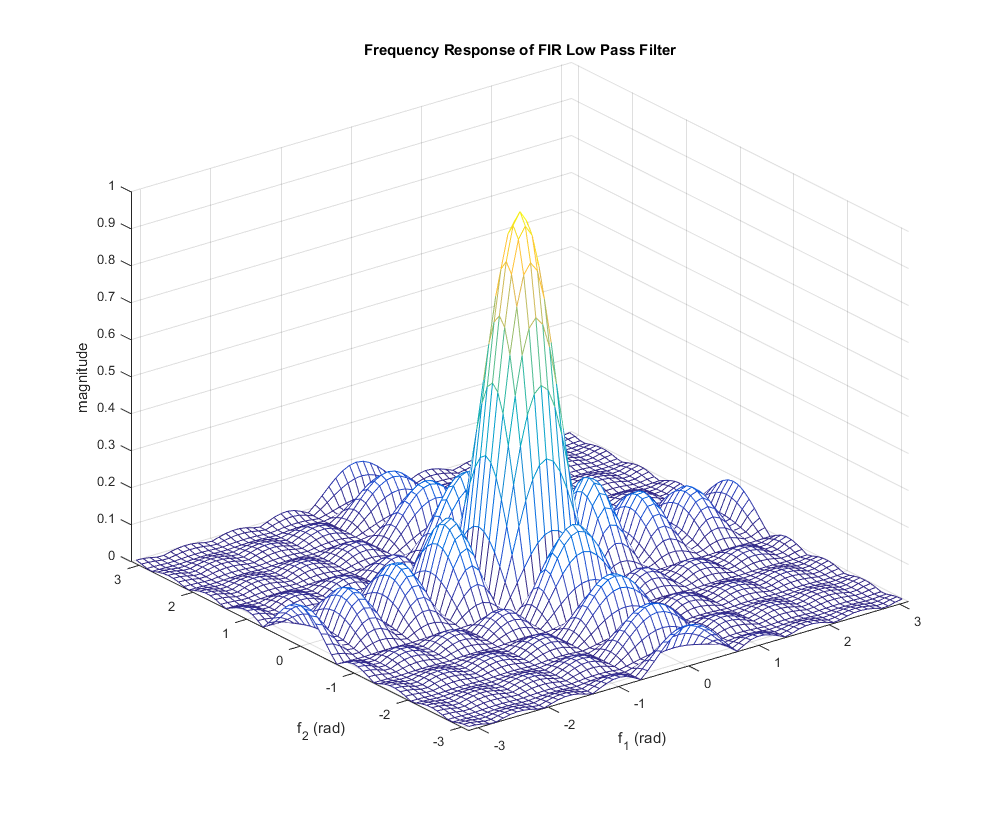
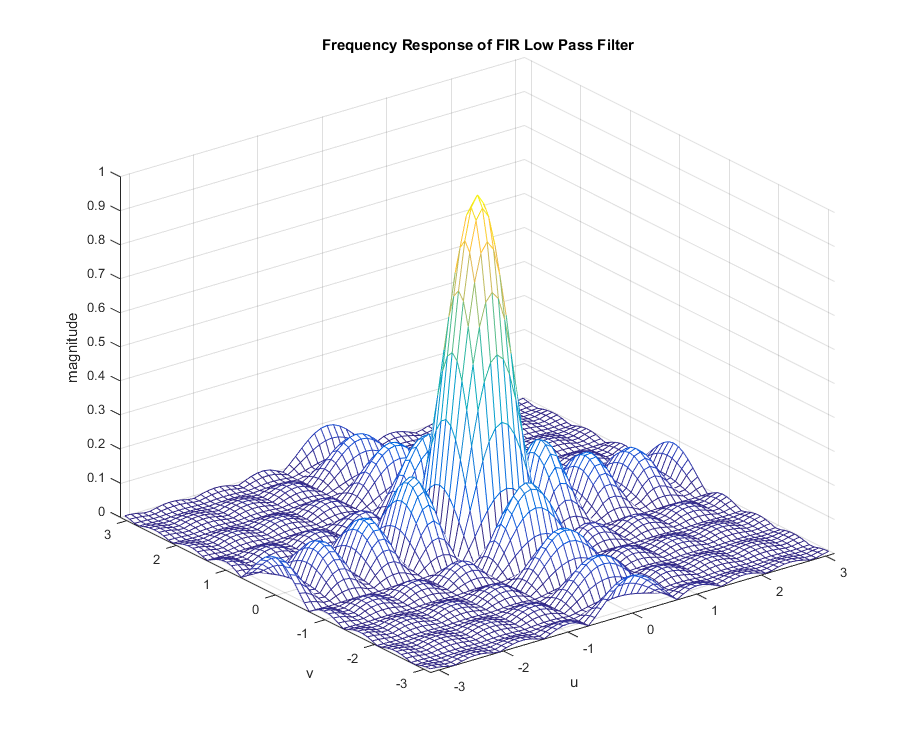
Complete MATLAB code

diff --git a/Lab1/src/iir_filter.m b/Lab1/src/iir_filter.m
@@ -1,0 +1,41 @@
+close all
+size = 64;
+u_vec = linspace(-pi, pi, size);
+v_vec = linspace(-pi, pi, size);
+H = zeros(size, size);
+ind = 1;
+for u = u_vec
+    H(ind, :) = abs(0.01./(1-0.9*exp(-1i*u)-0.9*exp(-1i*v_vec)+0.81*exp(-1i*u-1i*v_vec)));
+    ind = ind + 1;
+end
+mesh(u_vec, v_vec, H);
+xlabel('u')
+ylabel('v')
+zlabel('Magnitude')
+xlim([-pi, pi])
+ylim([-pi, pi])
+title('Frequency Response of the IIR filter')
+
+%calculate point spread function
+figure
+in = zeros(256,256);
+in(127, 127) = 1;
+h = zeros(256, 256);
+for i = 1:256
+    for j = 1:256
+        y = 0.01*in(i,j);
+        if (i-1) > 0
+            y = y + 0.9 * h(i-1, j);
+        end
+        if (j-1) > 0
+            y = y + 0.9 * h(i, j-1);
+        end
+        if (i-1) > 0 && (j-1) > 0
+            y = y - 0.81 * h(i-1, j-1);
+        end
+        h(i,j) = y;
+    end
+end
+imshow(uint8(255*100*h))
+imwrite(uint8(255*100*h), 'h_out.png');
+imwrite(uint8(255*100*h), 'h_out.tif');

diff --git a/Lab1/src/fir_sharpen_filter.m b/Lab1/src/fir_sharpen_filter.m
@@ -7,8 +7,8 @@ f1 = f1 * pi;
 f2 = f2 * pi;
 mesh(f1, f2, abs(H))
 axis ([-pi pi -pi pi 0 1])
-xlabel('f_1 (rad)')
-ylabel('f_2 (rad)')
+xlabel('u')
+ylabel('v')
 zlabel('magnitude')
 title('Frequency Response of FIR Low Pass Filter')
 
@@ -22,7 +22,7 @@ f1 = f1 * pi;
 f2 = f2 * pi;
 mesh(f1, f2, abs(G))
 axis ([-pi pi -pi pi 1 3])
-xlabel('f_1 (rad)')
-ylabel('f_2 (rad)')
+xlabel('u')
+ylabel('v')
 zlabel('magnitude')
 title('Frequency Response of FIR Sharpening Filter')

diff --git a/Lab1/src/fir_filter.m b/Lab1/src/fir_filter.m
@@ -7,7 +7,7 @@ f1 = f1 * pi;
 f2 = f2 * pi;
 mesh(f1, f2, abs(H))
 axis ([-pi pi -pi pi 0 1])
-xlabel('f_1 (rad)')
-ylabel('f_2 (rad)')
+xlabel('u')
+ylabel('v')
 zlabel('magnitude')
 title('Frequency Response of FIR Low Pass Filter')
